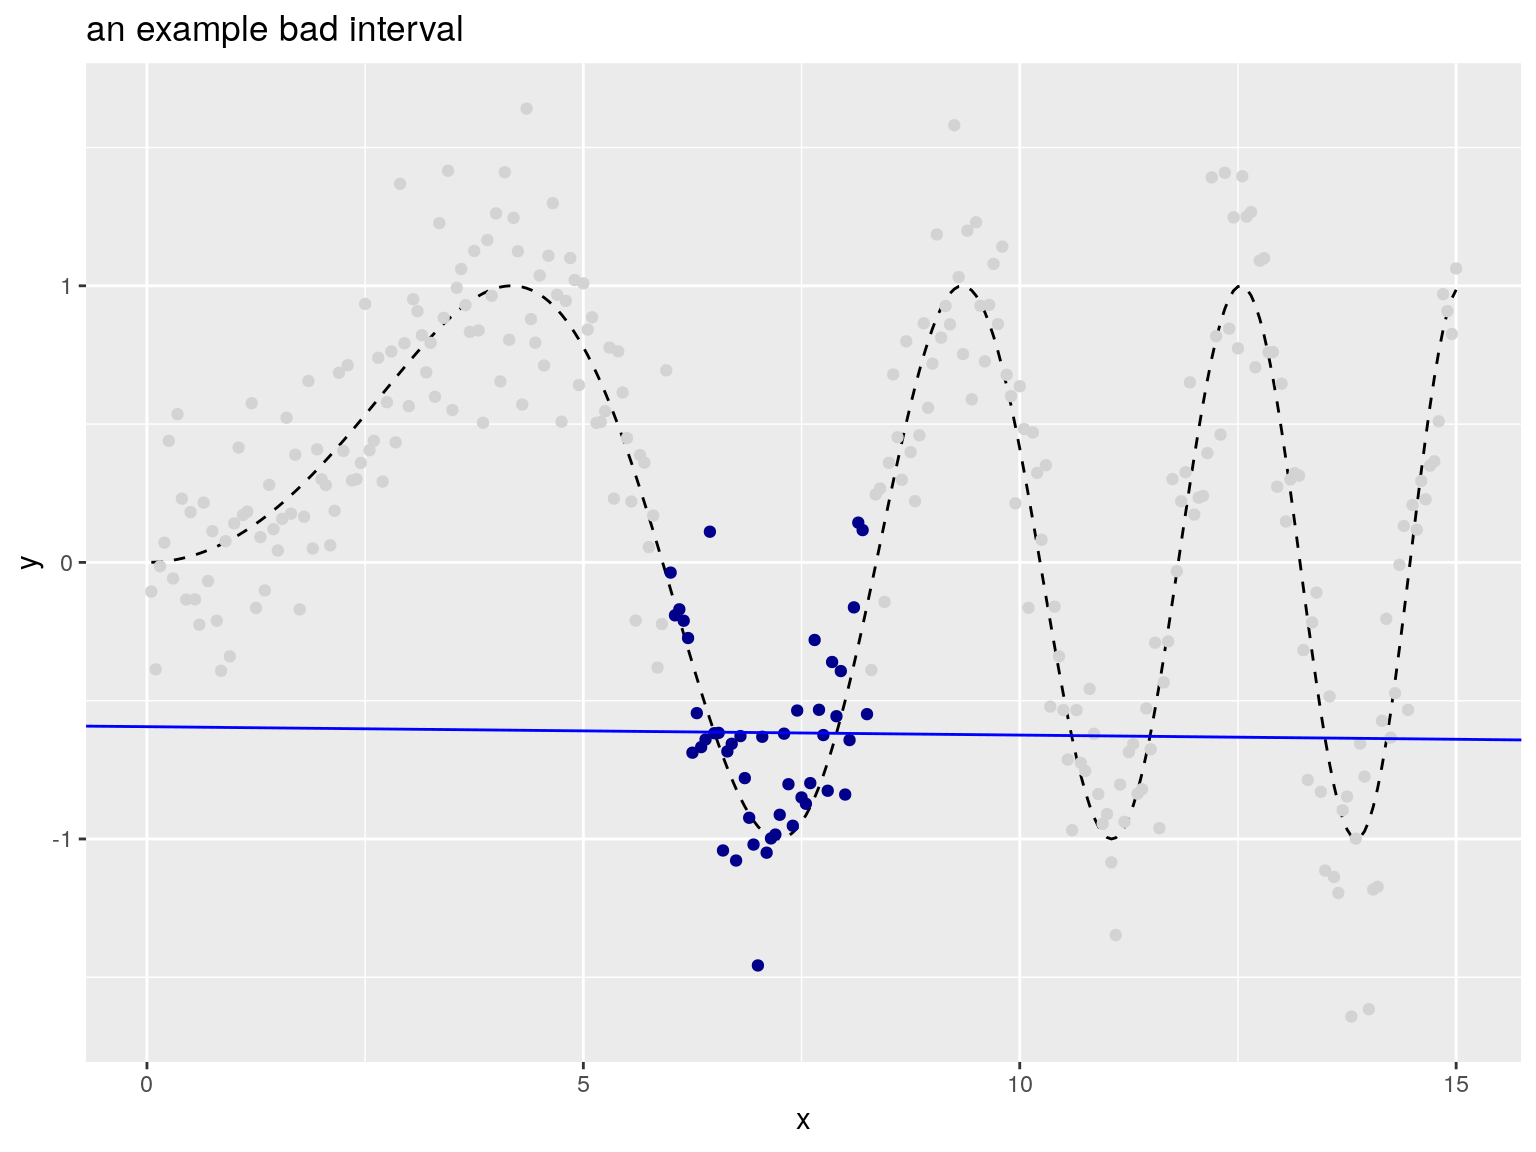
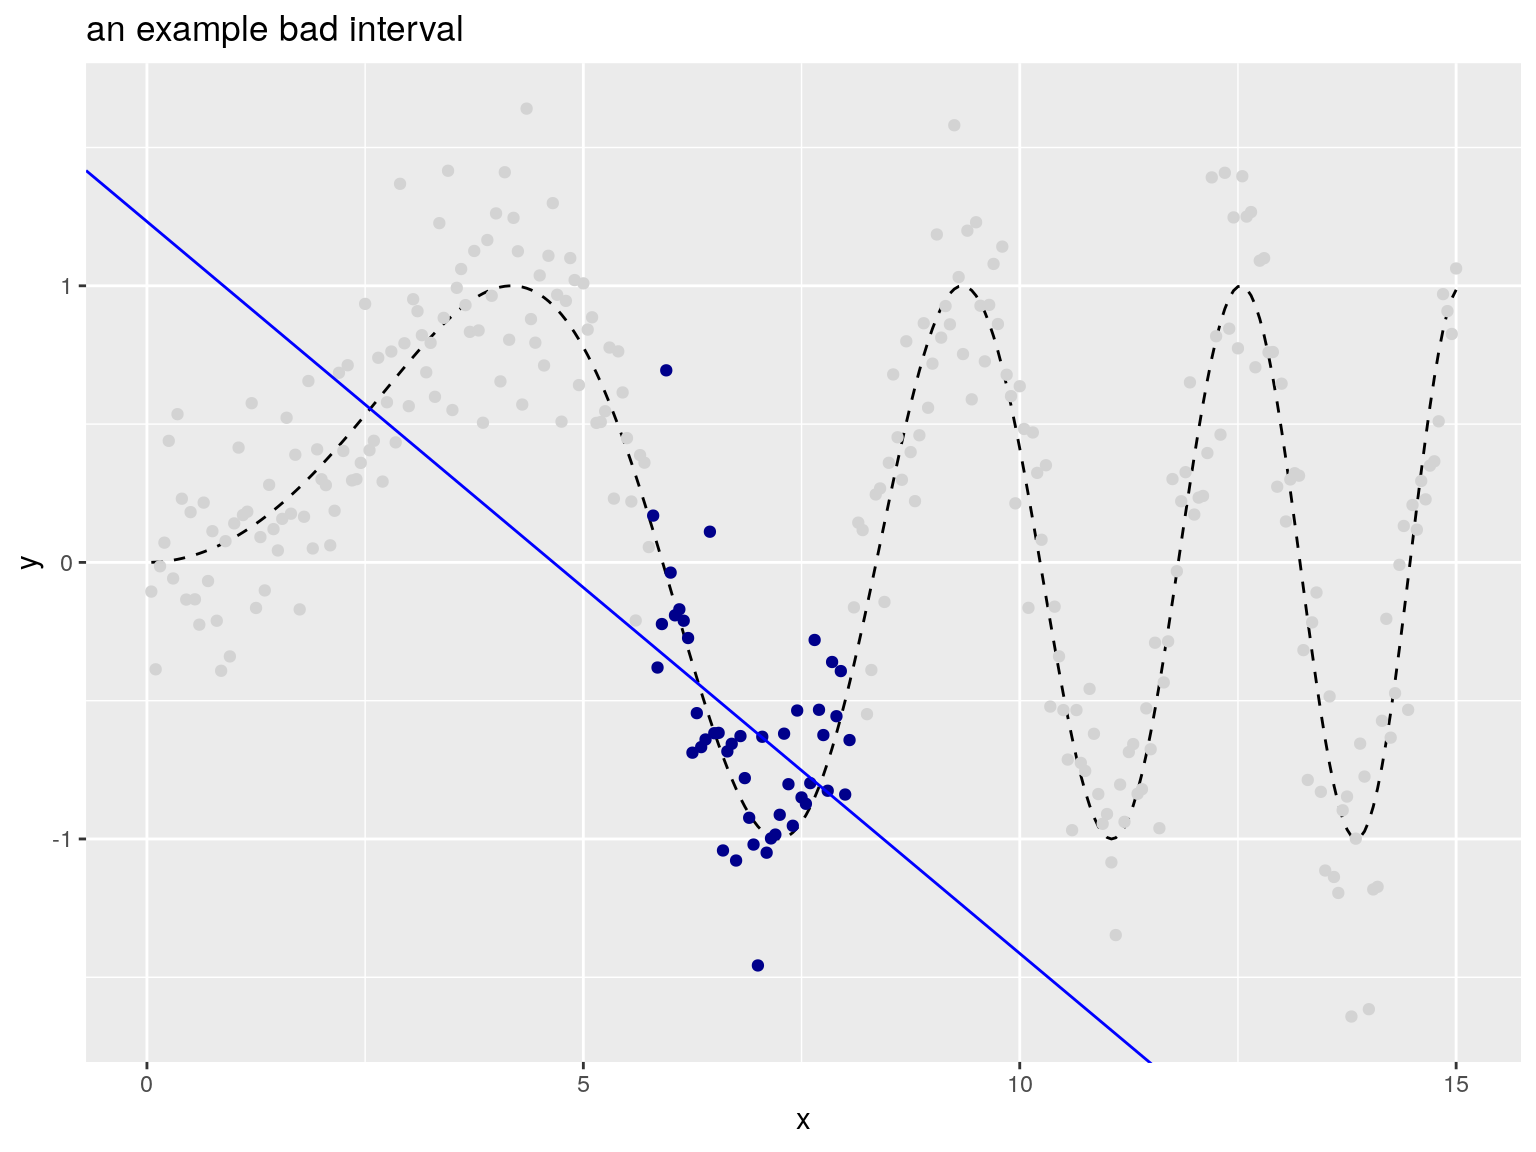
redo README

diff --git a/docs/index.html b/docs/index.html
@@ -135,24 +135,24 @@ soln &lt;-<span class="st"> </span><span class="kw"><a href="reference/solve_dyn
 <p>The following interval is a good interval, as all the chosen points (shown in dark blue) are in a nearly linear arrangement. The in-sample price of the interval would be the total sum of residuals of a linear model fit on the selected region (and the out of sample price would be given by the PRESS statistic).</p>
 <p><img src="https://raw.githubusercontent.com/WinVector/RcppDynProg/master/tools/README-rg1-1.png" width="768" style="display: block; margin: auto;"></p>
 <p>The “cost” (or loss) of this interval can be estimated as shown.</p>
-<div class="sourceCode"><pre class="sourceCode r"><code class="sourceCode r"><span class="kw"><a href="https://www.rdocumentation.org/packages/base/topics/print">print</a></span>(good_interval_indexes)
+<div class="sourceCode"><pre class="sourceCode r"><code class="sourceCode r"><span class="kw"><a href="https://www.rdocumentation.org/packages/base/topics/print">print</a></span>(good_interval_indexes) <span class="co"># interval </span>
  <span class="co">#  [1]  94 139</span>
 <span class="kw"><a href="https://www.rdocumentation.org/packages/base/topics/print">print</a></span>(<span class="dv">1</span> <span class="op">+</span><span class="st"> </span>good_interval_indexes[<span class="dv">2</span>] <span class="op">-</span><span class="st"> </span>good_interval_indexes[<span class="dv">1</span>]) <span class="co"># width</span>
  <span class="co">#  [1] 46</span>
 fit &lt;-<span class="st"> </span><span class="kw"><a href="https://www.rdocumentation.org/packages/stats/topics/lm">lm</a></span>(y_observed <span class="op">~</span><span class="st"> </span>x, 
           <span class="dt">data =</span> d[good_interval_indexes[<span class="dv">1</span>]<span class="op">:</span>good_interval_indexes[<span class="dv">2</span>], ])
-<span class="kw"><a href="https://www.rdocumentation.org/packages/base/topics/sum">sum</a></span>(fit<span class="op">$</span>residuals<span class="op">^</span><span class="dv">2</span>)
+<span class="kw"><a href="https://www.rdocumentation.org/packages/base/topics/sum">sum</a></span>(fit<span class="op">$</span>residuals<span class="op">^</span><span class="dv">2</span>) <span class="co"># cost for interval</span>
  <span class="co">#  [1] 2.807998</span></code></pre></div>
 <p>The following interval is a bad interval, as all the chosen points (shown in dark blue) are not in a nearly linear arrangement.</p>
 <p><img src="https://raw.githubusercontent.com/WinVector/RcppDynProg/master/tools/README-rb1-1.png" width="768" style="display: block; margin: auto;"></p>
-<div class="sourceCode"><pre class="sourceCode r"><code class="sourceCode r"><span class="kw"><a href="https://www.rdocumentation.org/packages/base/topics/print">print</a></span>(bad_interval_indexes)
- <span class="co">#  [1] 120 165</span>
+<div class="sourceCode"><pre class="sourceCode r"><code class="sourceCode r"><span class="kw"><a href="https://www.rdocumentation.org/packages/base/topics/print">print</a></span>(bad_interval_indexes) <span class="co"># interval</span>
+ <span class="co">#  [1] 116 161</span>
 <span class="kw"><a href="https://www.rdocumentation.org/packages/base/topics/print">print</a></span>(<span class="dv">1</span> <span class="op">+</span><span class="st"> </span>bad_interval_indexes[<span class="dv">2</span>] <span class="op">-</span><span class="st"> </span>bad_interval_indexes[<span class="dv">1</span>]) <span class="co"># width</span>
  <span class="co">#  [1] 46</span>
 fit &lt;-<span class="st"> </span><span class="kw"><a href="https://www.rdocumentation.org/packages/stats/topics/lm">lm</a></span>(y_observed <span class="op">~</span><span class="st"> </span>x, 
           <span class="dt">data =</span> d[bad_interval_indexes[<span class="dv">1</span>]<span class="op">:</span>bad_interval_indexes[<span class="dv">2</span>], ])
-<span class="kw"><a href="https://www.rdocumentation.org/packages/base/topics/sum">sum</a></span>(fit<span class="op">$</span>residuals<span class="op">^</span><span class="dv">2</span>)
- <span class="co">#  [1] 5.453532</span></code></pre></div>
+<span class="kw"><a href="https://www.rdocumentation.org/packages/base/topics/sum">sum</a></span>(fit<span class="op">$</span>residuals<span class="op">^</span><span class="dv">2</span>) <span class="co"># cost for interval</span>
+ <span class="co">#  [1] 5.242647</span></code></pre></div>
 <p>The user would price all of the intervals individually, and then ask the solver to find the best simultaneous set of intervals.</p>
 <p>The complete solution is worked as follows (using the <a href="https://winvector.github.io/RcppDynProg/reference/solve_for_partition.html"><code><a href="reference/solve_for_partition.html">RcppDynProg::solve_for_partition()</a></code></a> function which wraps all the steps together, converting from indices to <code>x</code>-coordinates).</p>
 <div class="sourceCode"><pre class="sourceCode r"><code class="sourceCode r">x_cuts &lt;-<span class="st"> </span><span class="kw"><a href="reference/solve_for_partition.html">solve_for_partition</a></span>(d<span class="op">$</span>x, d<span class="op">$</span>y_observed, <span class="dt">penalty =</span> <span class="dv">10</span>)

diff --git a/README.md b/README.md
@@ -76,13 +76,13 @@ The following interval is a good interval, as all the chosen points (shown in da
 The "cost" (or loss) of this interval can be estimated as shown.
 
 ``` r
-print(good_interval_indexes)
+print(good_interval_indexes) # interval 
  #  [1]  94 139
 print(1 + good_interval_indexes[2] - good_interval_indexes[1]) # width
  #  [1] 46
 fit <- lm(y_observed ~ x, 
           data = d[good_interval_indexes[1]:good_interval_indexes[2], ])
-sum(fit$residuals^2)
+sum(fit$residuals^2) # cost for interval
  #  [1] 2.807998
 ```
 
@@ -91,14 +91,14 @@ The following interval is a bad interval, as all the chosen points (shown in dar
 <img src="tools/README-rb1-1.png" style="display: block; margin: auto;" />
 
 ``` r
-print(bad_interval_indexes)
- #  [1] 120 165
+print(bad_interval_indexes) # interval
+ #  [1] 116 161
 print(1 + bad_interval_indexes[2] - bad_interval_indexes[1]) # width
  #  [1] 46
 fit <- lm(y_observed ~ x, 
           data = d[bad_interval_indexes[1]:bad_interval_indexes[2], ])
-sum(fit$residuals^2)
- #  [1] 5.453532
+sum(fit$residuals^2) # cost for interval
+ #  [1] 5.242647
 ```
 
 The user would price all of the intervals individually, and then ask the solver to find the best simultaneous set of intervals.
